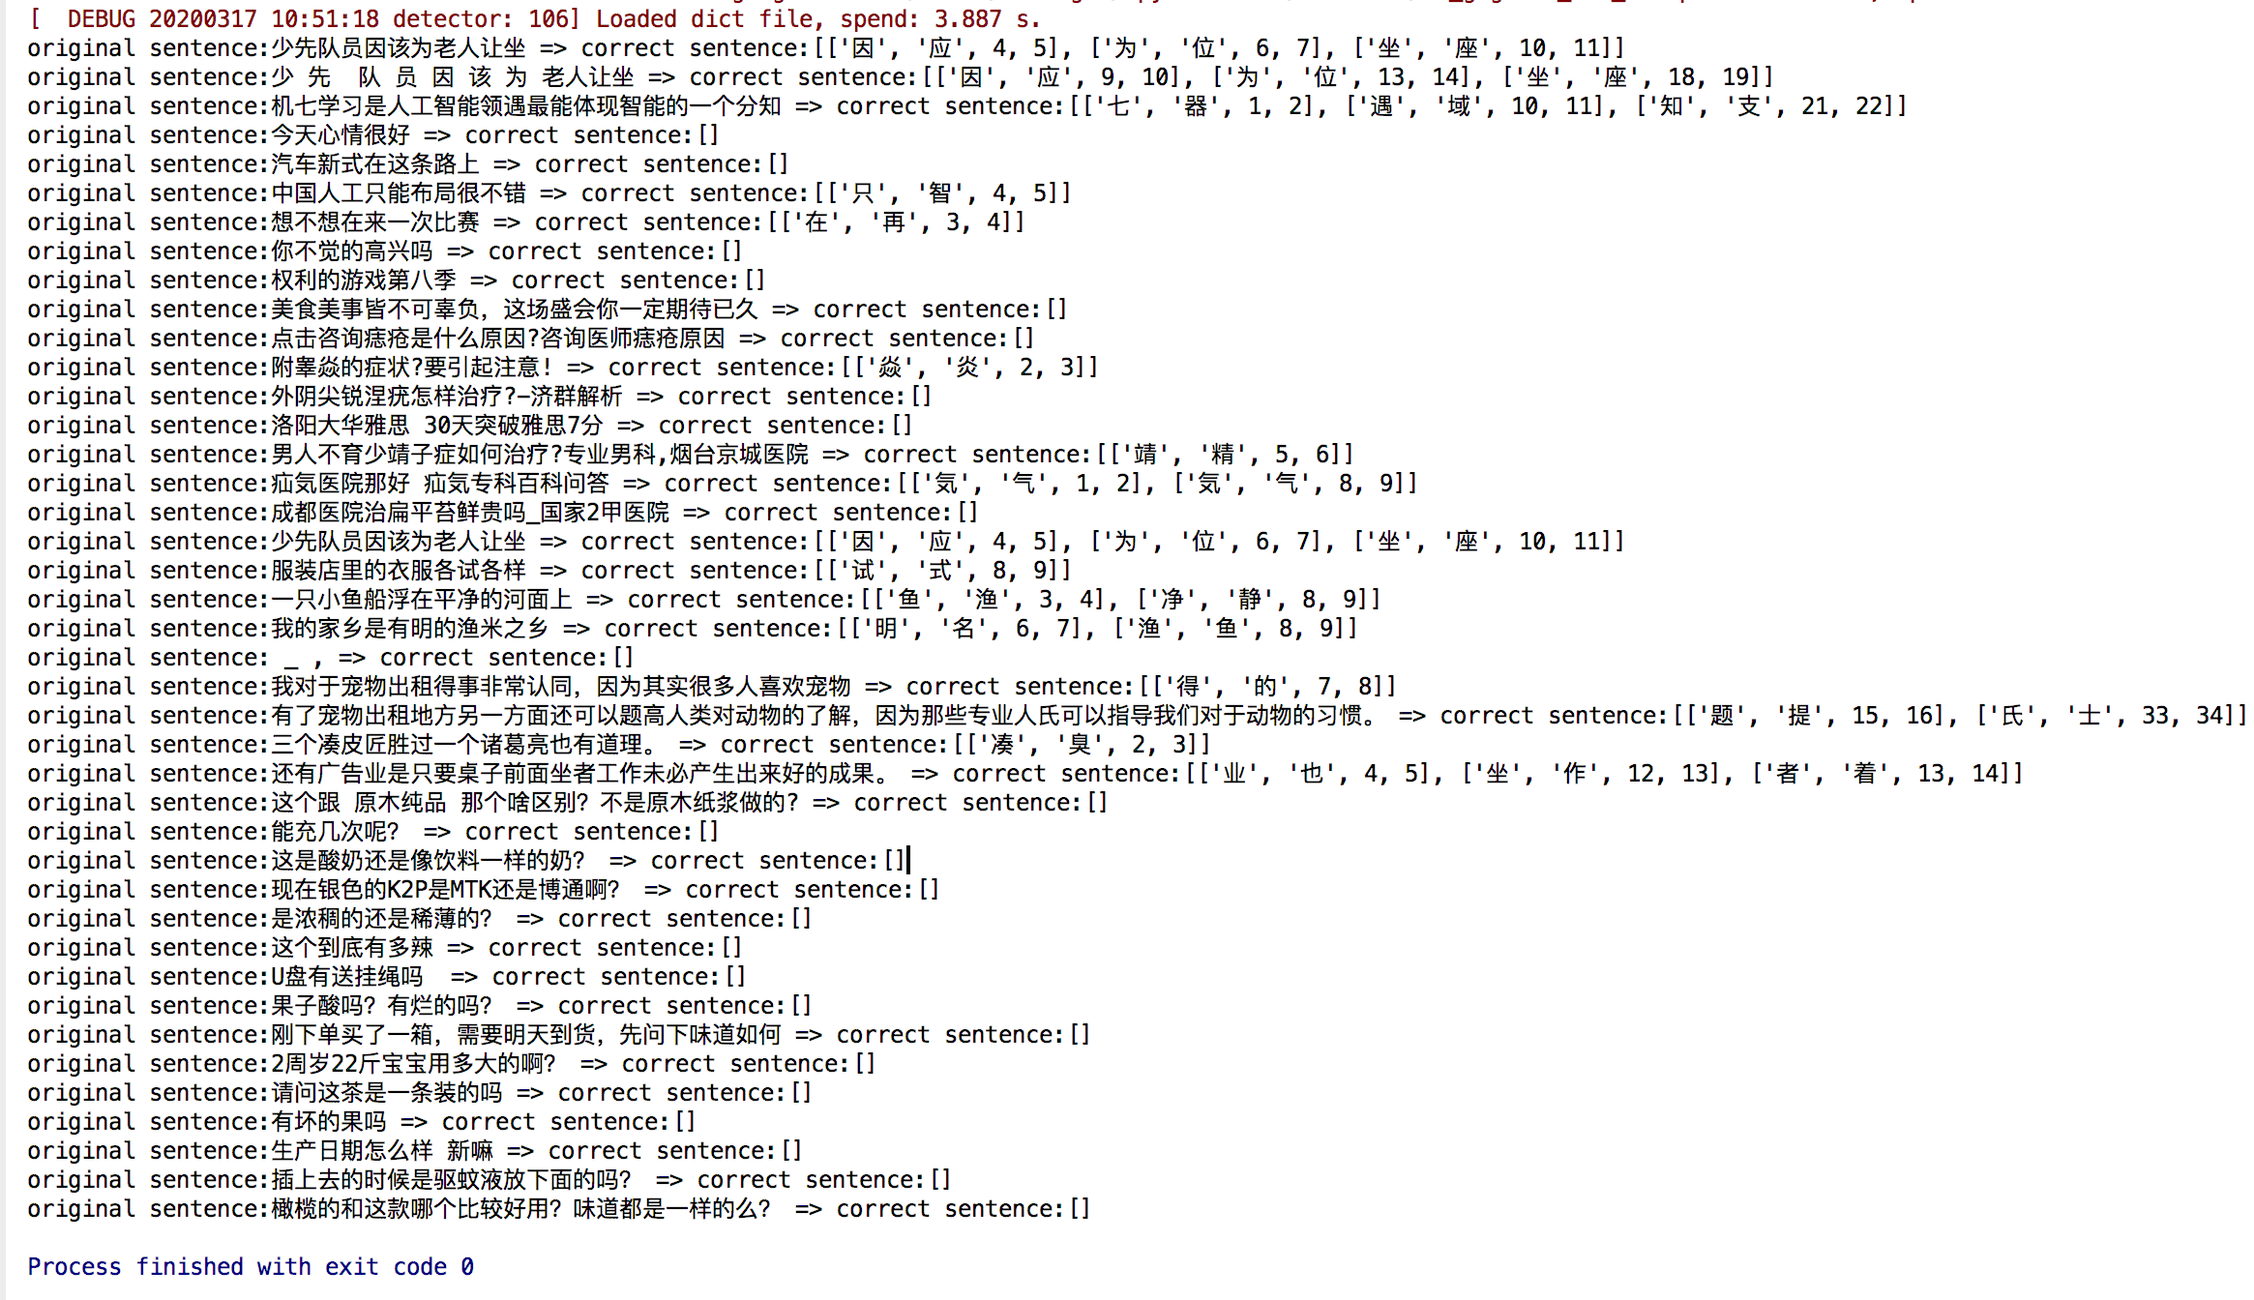
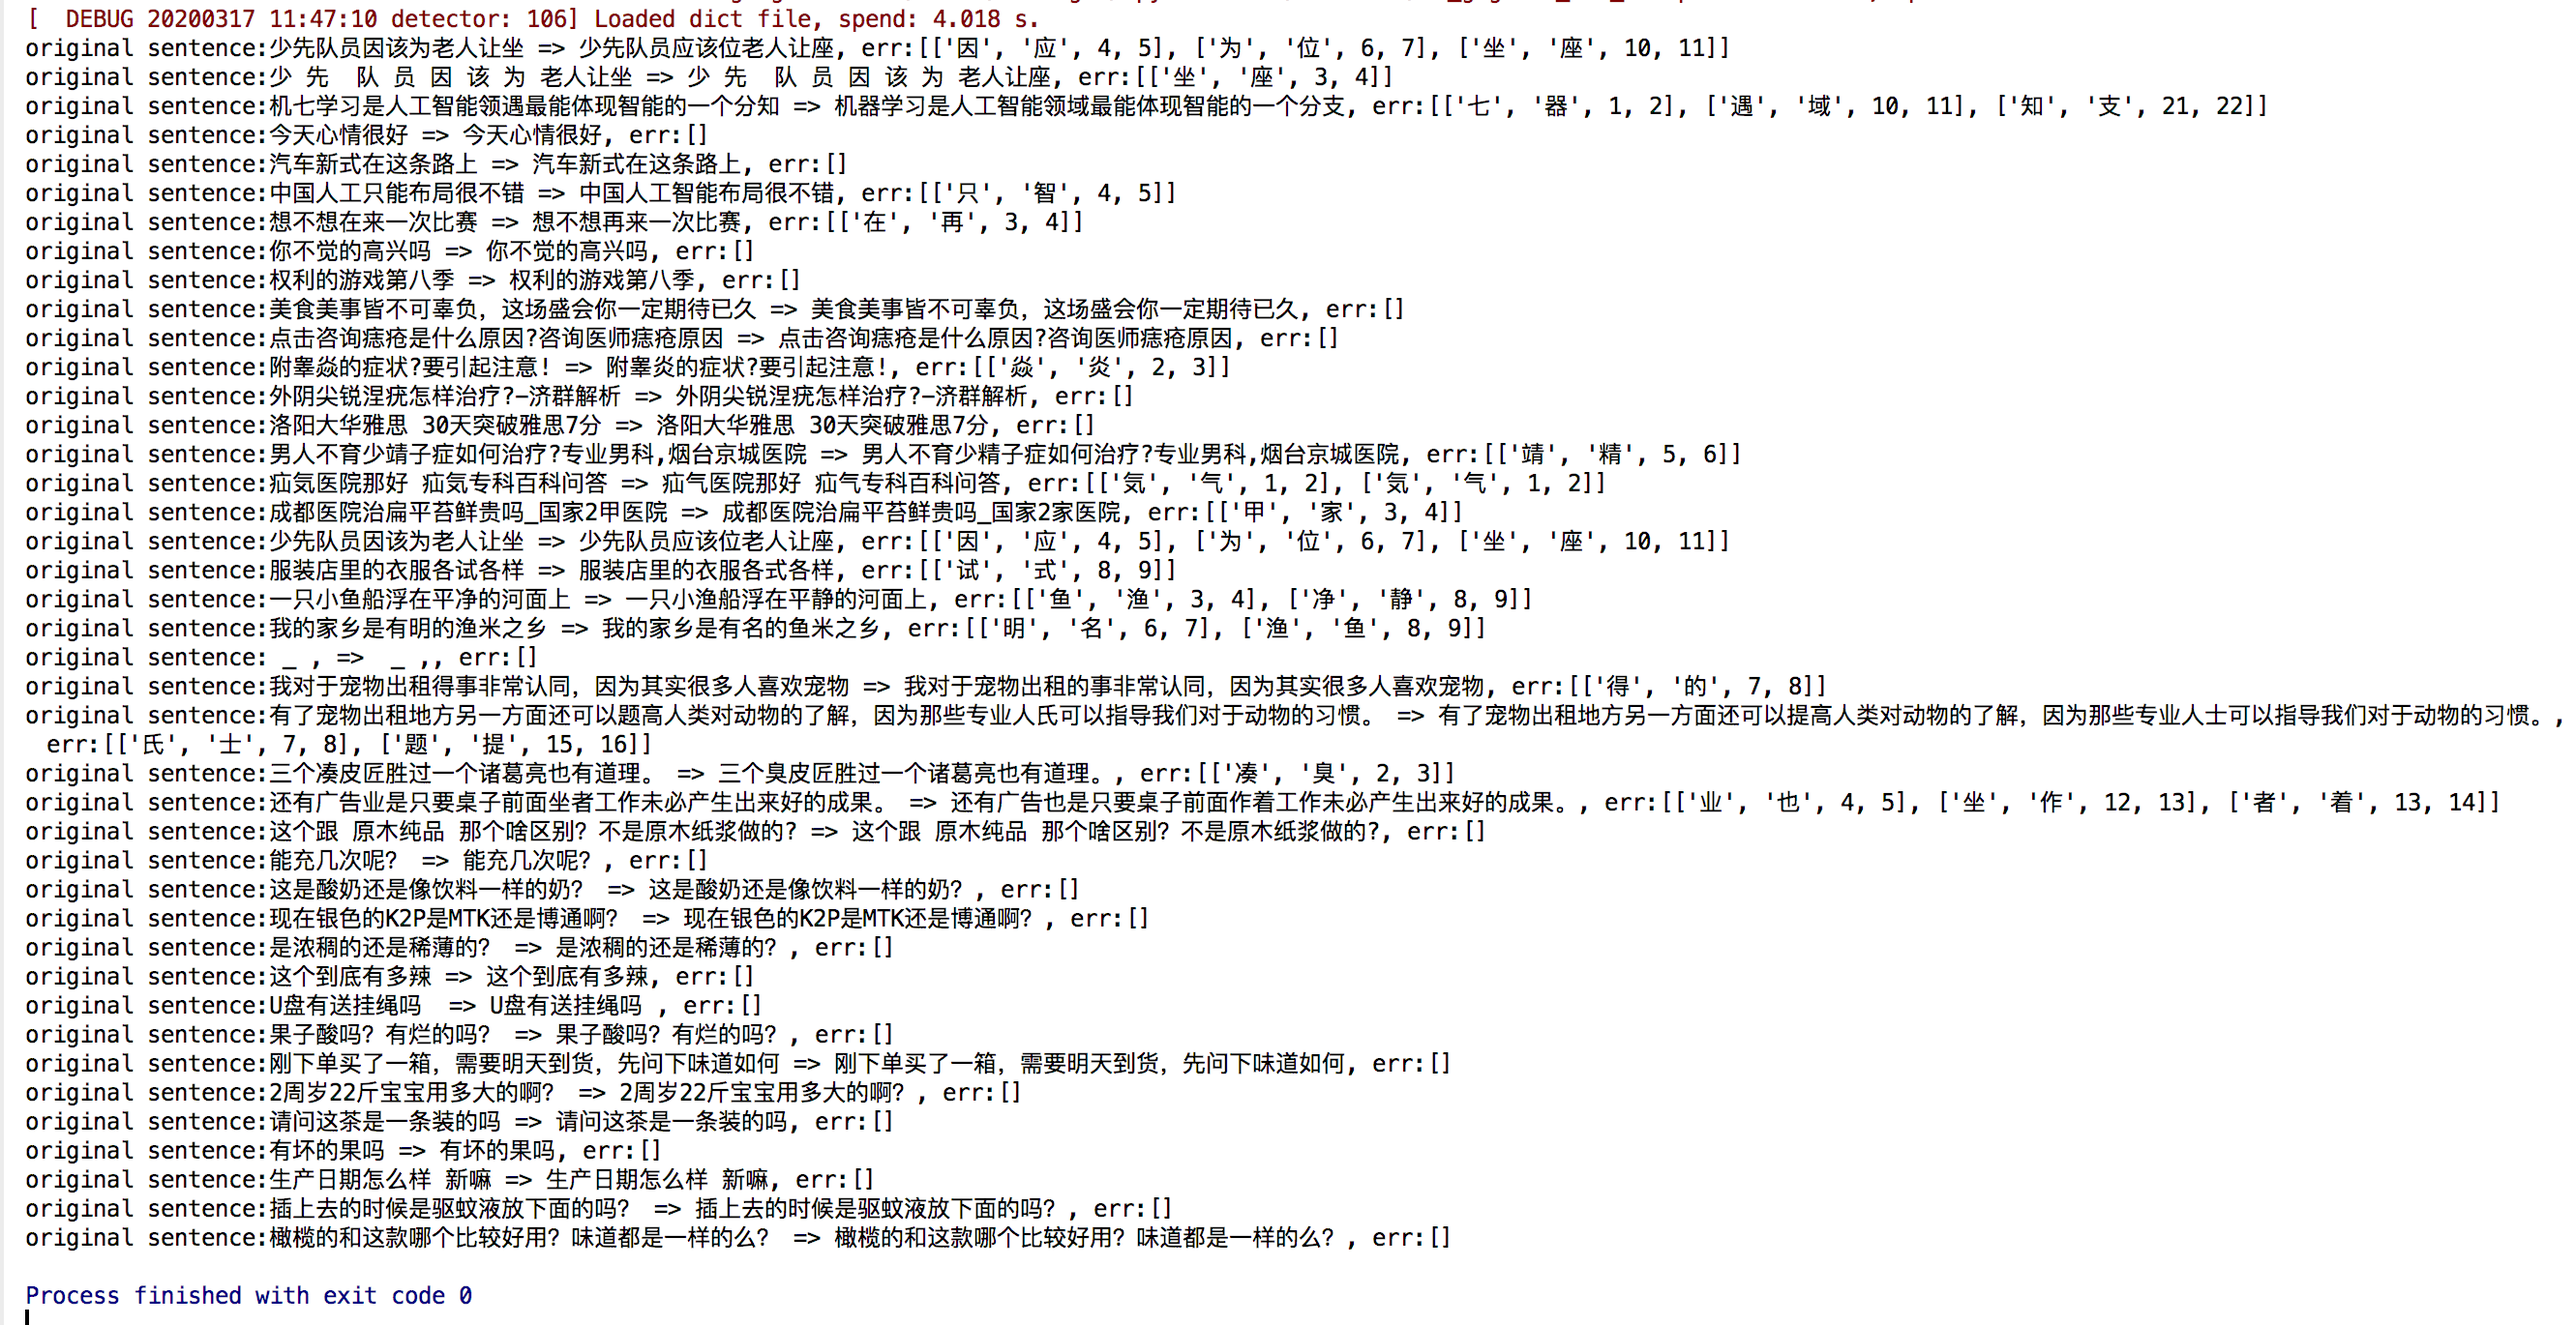
update bert with new text.

Changed region(s): [[0.0, 0.0, 1.0, 1.0]]

diff --git a/pycorrector/bert/bert_corrector.py b/pycorrector/bert/bert_corrector.py
@@ -4,6 +4,7 @@
 @description: use bert detect and correct chinese char error
 """
 
+import operator
 import sys
 import time
 
@@ -11,7 +12,7 @@ from transformers import pipeline
 
 sys.path.append('../..')
 from pycorrector.bert import config
-from pycorrector.utils.text_utils import is_chinese_string
+from pycorrector.utils.text_utils import is_chinese_string, convert_to_unicode
 from pycorrector.utils.logger import logger
 from pycorrector.corrector import Corrector
 
@@ -30,38 +31,47 @@ class BertCorrector(Corrector):
                               tokenizer=bert_model_dir)
         logger.debug('Loaded bert model: %s, spend: %.3f s.' % (bert_model_dir, time.time() - t1))
 
-    def bert_correct(self, sentence):
+    def bert_correct(self, text):
         """
         句子纠错
-        :param sentence: 句子文本
+        :param text: 句子文本
         :return: list[list], [error_word, begin_pos, end_pos, error_type]
         """
-        maybe_errors = []
-        for idx, s in enumerate(sentence):
-            # 对非中文的错误不做处理
-            if not is_chinese_string(s):
-                continue
+        text_new = ''
+        details = []
+        self.check_corrector_initialized()
+        # 编码统一，utf-8 to unicode
+        text = convert_to_unicode(text)
+        # 长句切分为短句
+        blocks = self.split_2_short_text(text, include_symbol=True)
+        for blk, start_idx in blocks:
+            blk_new = ''
+            for idx, s in enumerate(blk):
+                # 对非中文的错误不做处理
+                if is_chinese_string(s):
+                    sentence_lst = list(blk)
+                    sentence_lst[idx] = self.mask
+                    sentence_new = ''.join(sentence_lst)
+                    predicts = self.model(sentence_new)
+                    top_tokens = []
+                    for p in predicts:
+                        token_id = p.get('token', 0)
+                        token_str = self.model.tokenizer.convert_ids_to_tokens(token_id)
+                        top_tokens.append(token_str)
 
-            sentence_lst = list(sentence)
-            sentence_lst[idx] = self.mask
-            sentence_new = ''.join(sentence_lst)
-            predicts = self.model(sentence_new)
-            top_tokens = []
-            for p in predicts:
-                token_id = p.get('token', 0)
-                token_str = self.model.tokenizer.convert_ids_to_tokens(token_id)
-                top_tokens.append(token_str)
-
-            if top_tokens and (s not in top_tokens):
-                # 取得所有可能正确的词
-                candidates = self.generate_items(s)
-                if not candidates:
-                    continue
-                for token_str in top_tokens:
-                    if token_str in candidates:
-                        maybe_errors.append([s, token_str, idx, idx + 1])
-                        break
-        return maybe_errors
+                    if top_tokens and (s not in top_tokens):
+                        # 取得所有可能正确的词
+                        candidates = self.generate_items(s)
+                        if candidates:
+                            for token_str in top_tokens:
+                                if token_str in candidates:
+                                    details.append([s, token_str, idx, idx + 1])
+                                    s = token_str
+                                    break
+                blk_new += s
+            text_new += blk_new
+        details = sorted(details, key=operator.itemgetter(2))
+        return text_new, details
 
 
 if __name__ == "__main__":
@@ -73,5 +83,5 @@ if __name__ == "__main__":
         '今天心情很好',
     ]
     for sent in error_sentences:
-        err = d.bert_correct(sent)
-        print("original sentence:{} => detect sentence:{}".format(sent, err))
+        corrected_sent, err = d.bert_correct(sent)
+        print("original sentence:{} => {}, err:{}".format(sent, corrected_sent, err))

diff --git a/tests/bert_corrector_test.py b/tests/bert_corrector_test.py
@@ -57,5 +57,5 @@ error_sentences.extend(badcase)
 
 bertCorrector = bert_corrector.BertCorrector()
 for line in error_sentences:
-    correct_sent = bertCorrector.bert_correct(line)
-    print("original sentence:{} => correct sentence:{}".format(line, correct_sent))
+    correct_sent, err = bertCorrector.bert_correct(line)
+    print("original sentence:{} => {}, err:{}".format(line, correct_sent, err))

diff --git a/pycorrector/bert/README.md b/pycorrector/bert/README.md
@@ -58,6 +58,7 @@ python run_lm_finetuning.py \
 
 ```
 - 结果
+
 该脚本自动从S3下载`bert-base-chinese`模型，然后fine-tune训练，完后的模型放置于`data/bert_models`目录下：
 ```
 bert_models
